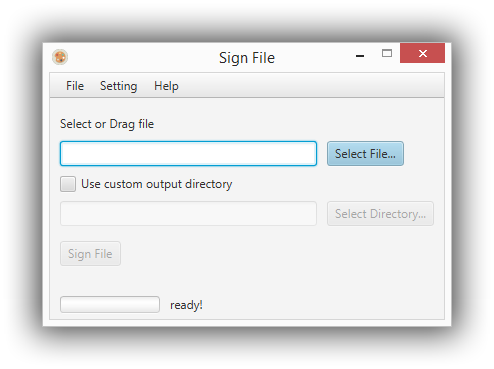
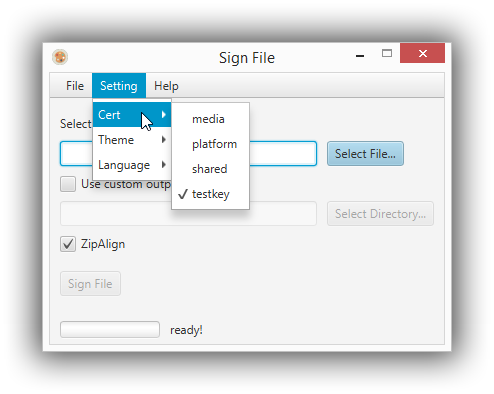
update README.md

diff --git a/README.md b/README.md
@@ -7,15 +7,12 @@ This is a simple cross-platform small app for sign apk, jar or zip file. You can
 ### Features ###
 
 - optional configure output directory
-- drag and drop support
+- drag and drop support(drag intput and output)
+- zipalign support
 - support runtime language switch
 - support runtime theme switch
 
 ### some snapshot ###
-The startup main window
+The main window
 
 ![MainWindow](raw/main_window_preview.png)
-
-The signing process
-
-![MainWindow](raw/main_window_signing_preview.png)
